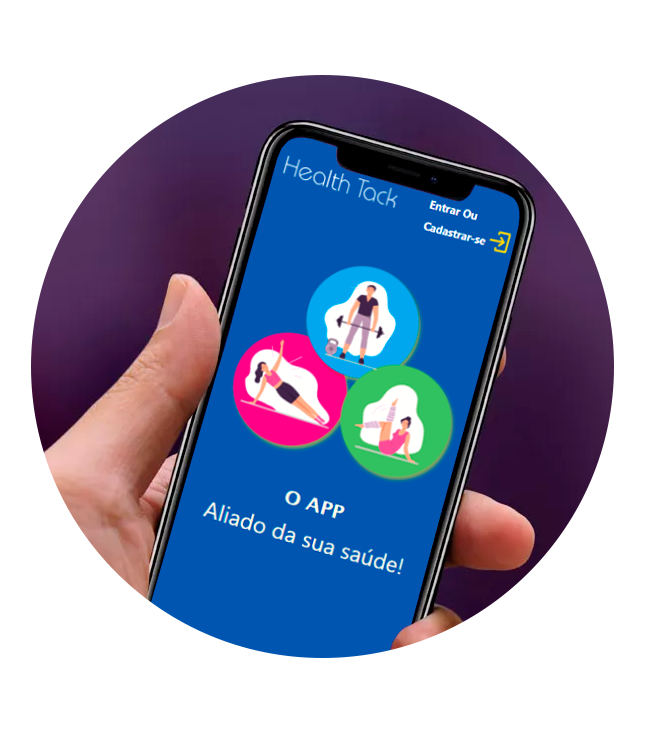
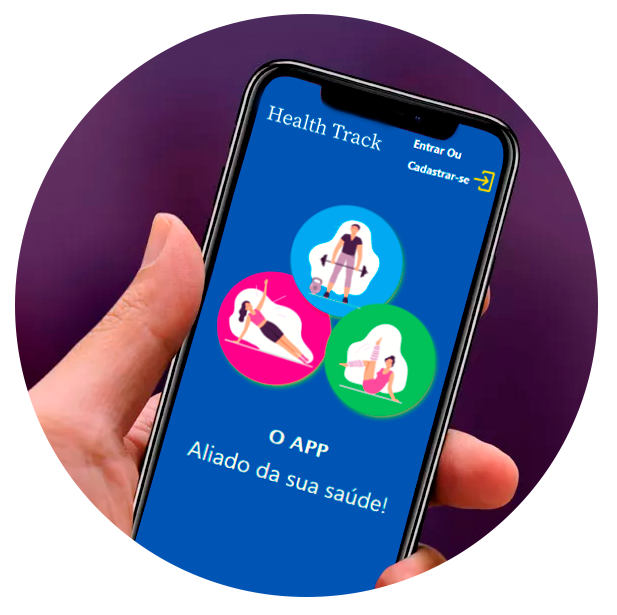
update-pages

diff --git a/login.html b/login.html
@@ -1,11 +1,77 @@
 <!DOCTYPE html>
-<html lang="en">
+<html lang="pt-br">
 <head>
     <meta charset="UTF-8">
-    <meta http-equiv="X-UA-Compatible" content="IE=edge">
     <meta name="viewport" content="width=device-width, initial-scale=1.0">
-    <title>Document</title>
+    <meta name="description" content="Aplicativo para controlar a saúde e atividades físicas.">
+    <title>Health Track</title>
+    <!-- CSS custom -->
+    <link rel="stylesheet" href="styles/login/login.css">
+    <link rel="stylesheet" href="styles/responsive.css">
+    <!-- Bootstrap CSS -->
+    <link href="https://cdn.jsdelivr.net/npm/bootstrap@5.0.1/dist/css/bootstrap.min.css" rel="stylesheet" integrity="sha384-+0n0xVW2eSR5OomGNYDnhzAbDsOXxcvSN1TPprVMTNDbiYZCxYbOOl7+AMvyTG2x" crossorigin="anonymous">
 </head>
-<body>
+<body class="global">
+
+<!-- Cabeçalho -->
+<header>
+<nav>
+        <div>
+            <a href="/">
+                <img src="/public/img/logo-2.png" alt="" class="img-fluid logo">
+            </a>
+        </div>
+        <div class="login">
+            <p>Entrar Ou<br>
+                Cadastrar-se</p>
+            
+            <a href="login.html">
+                <img src="./public/assets/login.svg" alt="" class="login-icon">
+            </a>        
+        </div>
+    </nav>
+</header>
+
+<!-- Conteúdo -->
+<main class="conainter">
+    <div class="container" >
+    <a class="links" id="paracadastro"></a>
+    <a class="links" id="paralogin"></a>
+     
+    <div class="content">      
+      <!--FORMULÁRIO DE LOGIN-->
+      <div id="login">
+        <form method="post" action=""> 
+          <h1>Login</h1> 
+          <p> 
+            <label for="nome_login">Seu nome</label>
+            <input id="nome_login" name="nome_login" required="required" type="text" placeholder="ex. contato@htmlecsspro.com"/>
+          </p>
+           
+          <p> 
+            <label for="email_login">Seu e-mail</label>
+            <input id="email_login" name="email_login" required="required" type="password" placeholder="ex. senha" /> 
+          </p>
+           
+          <p> 
+            <input type="checkbox" name="manterlogado" id="manterlogado" value="" /> 
+            <label for="manterlogado">Manter-me logado</label>
+          </p>
+           
+          <p> 
+            <input type="submit" value="Logar" /> 
+          </p>
+           
+          <p class="link">
+            Ainda não tem conta?
+            <a href="/cadastro.html">Cadastre-se</a>
+          </p>
+        </form>
+      </div>
+ 
+      
+    </div>
+  </div>  
+</main>
 </body>
 </html>

diff --git a/cadastro.html b/cadastro.html
@@ -1,0 +1,69 @@
+<!DOCTYPE html>
+<html lang="pt-br">
+<head>
+    <meta charset="UTF-8">
+    <meta name="viewport" content="width=device-width, initial-scale=1.0">
+    <meta name="description" content="Aplicativo para controlar a saúde e atividades físicas.">
+    <title>Health Track</title>
+    <!-- CSS custom -->
+    <link rel="stylesheet" href="styles/style.css">
+    <link rel="stylesheet" href="styles/responsive.css">
+    <!-- Bootstrap CSS -->
+    <link href="https://cdn.jsdelivr.net/npm/bootstrap@5.0.1/dist/css/bootstrap.min.css" rel="stylesheet" integrity="sha384-+0n0xVW2eSR5OomGNYDnhzAbDsOXxcvSN1TPprVMTNDbiYZCxYbOOl7+AMvyTG2x" crossorigin="anonymous">
+</head>
+<body class="global">
+
+<!-- Cabeçalho -->
+<header>
+<nav>
+        <div>
+            <a href="/">
+                <img src="/public/img/logo-2.png" alt="" class="img-fluid logo">
+            </a>
+        </div>
+        <div class="login">
+            <p>Entrar Ou<br>
+                Cadastrar-se</p>
+            
+            <a href="login.html">
+                <img src="./public/assets/login.svg" alt="" class="login-icon">
+            </a>        
+        </div>
+    </nav>
+</header>
+
+<!-- Conteúdo -->
+<main class="conainter">
+   <!--FORMULÁRIO DE CADASTRO-->
+      <div id="cadastro">
+        <form method="post" action=""> 
+          <h1>Cadastro</h1> 
+           
+          <p> 
+            <label for="nome_cad">Seu nome</label>
+            <input id="nome_cad" name="nome_cad" required="required" type="text" placeholder="nome" />
+          </p>
+           
+          <p> 
+            <label for="email_cad">Seu e-mail</label>
+            <input id="email_cad" name="email_cad" required="required" type="email" placeholder="contato@htmlecsspro.com"/> 
+          </p>
+           
+          <p> 
+            <label for="senha_cad">Sua senha</label>
+            <input id="senha_cad" name="senha_cad" required="required" type="password" placeholder="ex. 1234"/>
+          </p>
+           
+          <p> 
+            <input type="submit" value="Cadastrar"/> 
+          </p>
+           
+          <p class="link">  
+            Já tem conta?
+            <a href="#paralogin"> Ir para Login </a>
+          </p>
+        </form>
+      </div>
+</main>
+</body>
+</html>

diff --git a/dashboard.html b/dashboard.html
@@ -1,0 +1,51 @@
+<!DOCTYPE html>
+<html>
+    <head>
+        <meta charset="utf-8">
+        <meta http-equiv="X-UA-Compatible" content="IE=edge">
+        <title></title>
+        <meta name="description" content="">
+        <meta name="viewport" content="width=device-width, initial-scale=1">
+        <link rel="stylesheet" href="">
+    </head>
+    <body>
+
+
+
+<style type="text/css">
+.tg  {border-collapse:collapse;border-spacing:0;}
+.tg td{border-color:black;border-style:solid;border-width:1px;font-family:Arial, sans-serif;font-size:14px;
+  overflow:hidden;padding:10px 5px;word-break:normal;}
+.tg th{border-color:black;border-style:solid;border-width:1px;font-family:Arial, sans-serif;font-size:14px;
+  font-weight:normal;overflow:hidden;padding:10px 5px;word-break:normal;}
+.tg .tg-eftv{border-color:#ffcb2f;text-align:left;vertical-align:top}
+.tg .tg-0lax{text-align:left;vertical-align:top}
+</style>
+<table class="tg">
+<thead>
+  <tr>
+    <th class="tg-eftv"></th>
+    <th class="tg-0lax"></th>
+    <th class="tg-0lax"></th>
+    <th class="tg-0lax"></th>
+  </tr>
+</thead>
+<tbody>
+  <tr>
+    <td class="tg-0lax"></td>
+    <td class="tg-0lax"></td>
+    <td class="tg-0lax"></td>
+    <td class="tg-0lax"></td>
+  </tr>
+  <tr>
+    <td class="tg-0lax"></td>
+    <td class="tg-0lax"></td>
+    <td class="tg-0lax"></td>
+    <td class="tg-0lax"></td>
+  </tr>
+</tbody>
+</table>
+
+
+    </body>
+</html>

diff --git a/index.html b/index.html
@@ -12,20 +12,21 @@
     <link href="https://cdn.jsdelivr.net/npm/bootstrap@5.0.1/dist/css/bootstrap.min.css" rel="stylesheet" integrity="sha384-+0n0xVW2eSR5OomGNYDnhzAbDsOXxcvSN1TPprVMTNDbiYZCxYbOOl7+AMvyTG2x" crossorigin="anonymous">
 </head>
 <body class="global">
-<header>
 
 <!-- Cabeçalho -->
-    <nav>
+<header>
+<nav>
         <div>
             <a href="">
-                <img src="/public/img/logo.png" alt="" class="img-fluid logo">
+                <img src="/public/img/logo-2.png" alt="" class="img-fluid logo">
             </a>
         </div>
-        <div>
-            <strong>Entrar Ou<br>
-                Cadastrar-se</strong>
+        <div class="login">
+            <p>Entrar Ou<br>
+                Cadastrar-se</p>
+            
             <a href="login.html">
-                <img src="./public/assets/login.svg" alt="" class="login">
+                <img src="./public/assets/login.svg" alt="" class="login-icon">
             </a>        
         </div>
     </nav>
